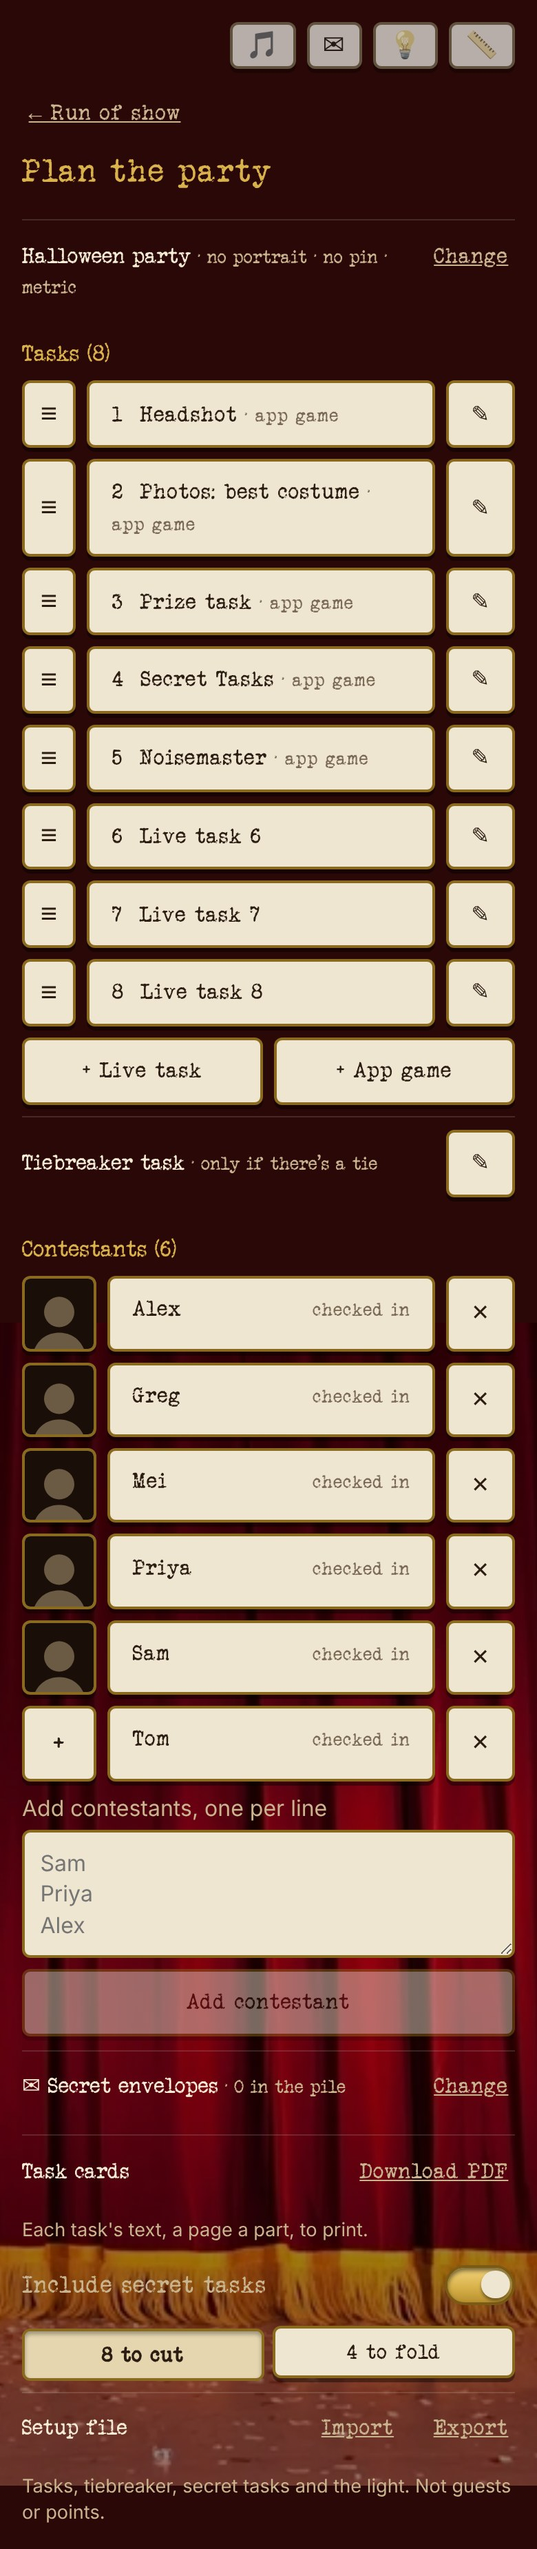
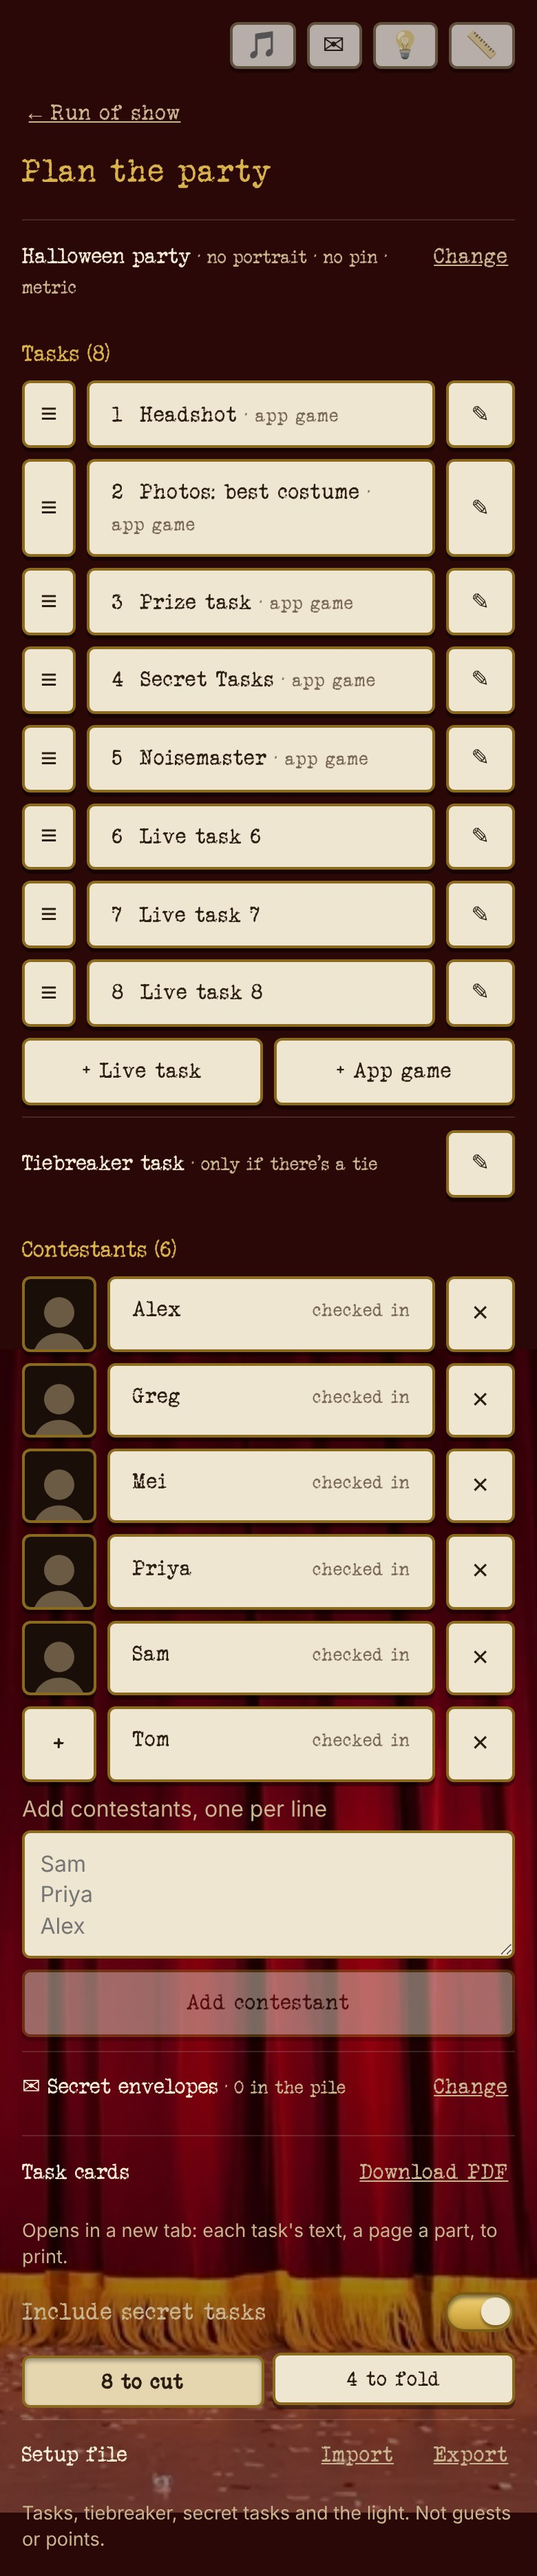
Task cards PDF: open in a new tab
Claude-Session: https://claude.ai/code/session_017EZXwv2HsaVFnzxRVSaLaw

diff --git a/src/scoreboard/TaskCards.tsx b/src/scoreboard/TaskCards.tsx
@@ -30,18 +30,24 @@ export function TaskCards({ code, session }: { code: string; session: Session })
 
   async function download() {
     setBusy(true); setNote(undefined);
+    // Opened now, while the tap still counts, so the browser lets the PDF come up in its own tab once it's made.
+    const tab = window.open("", "_blank");
     try {
       const pool = secret ? ((await get(ref(db(), `secretTasks/${code}/pool`))).val() ?? {}) as Record<string, string> : {};
       const secrets = Object.values(pool).filter((t) => t.trim());
       const pages = pagesOf(session.scoreboard);
-      if (!pages.length && !secrets.length) { setNote("No task has any text yet."); return; }
+      if (!pages.length && !secrets.length) { tab?.close(); setNote("No task has any text yet."); return; }
       const face = faceOf(await sfntOfWoff(await (await fetch(fontUrl)).arrayBuffer()));
       const pdf = await buildPdf(face, pages, secrets, layout);
       const url = URL.createObjectURL(new Blob([pdf as BlobPart], { type: "application/pdf" }));
-      const a = Object.assign(document.createElement("a"), { href: url, download: setupFileName(session, code).replace(/\.taskmaster\.json$/, " task cards.pdf") });
-      a.click();
-      setTimeout(() => URL.revokeObjectURL(url), 1000);
-    } catch { setNote("Couldn't make the PDF. Try again."); }
+      if (tab) tab.location.href = url;
+      else {
+        // The browser wouldn't open a tab, so it downloads instead.
+        const a = Object.assign(document.createElement("a"), { href: url, download: setupFileName(session, code).replace(/\.taskmaster\.json$/, " task cards.pdf") });
+        a.click();
+      }
+      setTimeout(() => URL.revokeObjectURL(url), 60000);
+    } catch { tab?.close(); setNote("Couldn't make the PDF. Try again."); }
     finally { setBusy(false); }
   }
 
@@ -51,7 +57,7 @@ export function TaskCards({ code, session }: { code: string; session: Session })
         <span>Task cards</span>
         <button className="link" disabled={busy} onClick={() => void download()}>{busy ? "Making…" : "Download PDF"}</button>
       </div>
-      <p className="muted small">{note ?? "Each task's text, a page a part, to print."}</p>
+      <p className="muted small">{note ?? "Opens in a new tab: each task's text, a page a part, to print."}</p>
       <div className="toggles"><Toggle label="Include secret tasks" on={secret} onChange={setSecret} /></div>
       {secret && (
         <div className="choices marks" role="radiogroup" aria-label="Secret task sheets">

diff --git a/docs/style-guide.md b/docs/style-guide.md
@@ -215,7 +215,7 @@ See: [guest-home-waiting.jpg](screens/guest-home-waiting.jpg), [guest-home-prize
   2. `Tasks (N)`: `≡` (drag to reorder), the task's name (number, "· app game", the note in quotes, "5 contestants scored") and `✎`, which opens the task's own page. No ▶ Start: starting is Run of show's job. Under the list "+ Live task" and "+ App game" side by side, then the **tiebreaker as a summary line** (outside the running order) with its own ✎.
   3. `Contestants (N)`: the headshot (tap to add or change) · name with "checked in" / "not yet" · `×`, guests here but not on the scoreboard with "+ Add", then a "Add contestants, one per line" box.
   4. "✉ Secret envelopes · 12 in the pile" as a summary line, with Change opening the pile to load it.
-  5. **Task cards**: a row (`.task-cards`, a summary line) with **Download PDF** on the right and a quiet hint, "Each task's text, a page a part, to print." Under it an "Include secret tasks" switch (`Toggle`); on, a `.choices.marks` radio row "8 to cut" / "4 to fold" (pressed in, never gold) picks how the secret tasks print. The PDF is plain black Veteran Typewriter text on white Letter pages: a page per task or part (heading in capitals, centred; a paragraph per line; the block centred down the page), then the secret tasks as cards headed SECRET TASK, 8 (2 × 4) or 4 (2 × 2) a sheet, faint grey cut lines between cards and no fold lines. Built in the app (`taskCardsPdf.ts`) with the font embedded. See: [task-cards-pdf-page.jpg](screens/task-cards-pdf-page.jpg), [task-cards-pdf-secret-cut.jpg](screens/task-cards-pdf-secret-cut.jpg), [task-cards-pdf-secret-fold.jpg](screens/task-cards-pdf-secret-fold.jpg), [plan-host-task-cards.jpg](screens/plan-host-task-cards.jpg).
+  5. **Task cards**: a row (`.task-cards`, a summary line) with **Download PDF** on the right (it opens the PDF in a new tab, or downloads it where the browser blocks that) and a quiet hint, "Opens in a new tab: each task's text, a page a part, to print." Under it an "Include secret tasks" switch (`Toggle`); on, a `.choices.marks` radio row "8 to cut" / "4 to fold" (pressed in, never gold) picks how the secret tasks print. The PDF is plain black Veteran Typewriter text on white Letter pages: a page per task or part (heading in capitals, centred; a paragraph per line; the block centred down the page), then the secret tasks as cards headed SECRET TASK, 8 (2 × 4) or 4 (2 × 2) a sheet, faint grey cut lines between cards and no fold lines. Built in the app (`taskCardsPdf.ts`) with the font embedded. See: [task-cards-pdf-page.jpg](screens/task-cards-pdf-page.jpg), [task-cards-pdf-secret-cut.jpg](screens/task-cards-pdf-secret-cut.jpg), [task-cards-pdf-secret-fold.jpg](screens/task-cards-pdf-secret-fold.jpg), [plan-host-task-cards.jpg](screens/plan-host-task-cards.jpg).
   6. **Setup file**: at the very bottom, a row (`.setup-file`, a summary line like the envelopes' one): **Import** and **Export** links on the right (`.summary-links`) and a quiet hint under it, "Tasks, tiebreaker, secret tasks and the light. Not guests or points." ([host-setup-file.jpg](screens/host-setup-file.jpg)). Import opens the file picker, then a check in place under the row (`.sb-add`: an h3, "Nothing changes until you tap Import.", the read-only `.run-list` of the tasks as they'll be with unchanged / new / updated / kept: has points on the right, quiet lines for Removed, Tiebreaker, Secret tasks, The light and songs missing from the music folder, gold "Import N tasks", quiet Cancel); a wrong file shows one line and Cancel instead ([host-setup-import-check.jpg](screens/host-setup-import-check.jpg)).
   On a wide iPad (≥1000px) the tasks and contestants sit side by side, with the party line and the envelopes line across.
 - **Summary line** (`.summary-line`): a line saying what's set, in typewriter, with a quiet "Change" (or ✎) at the right that opens just that part in place. Used for the party, the tiebreaker, the envelopes and a task's optional parts. Anything optional that isn't set yet is a paper "+" chip instead (`.chip-add`: "+ Task text", "+ Song", "+ 📏 Unit"). Only one part is open at a time (`.extra-open`, a dashed gold outline), with Done and "✕ Remove …" inside.
